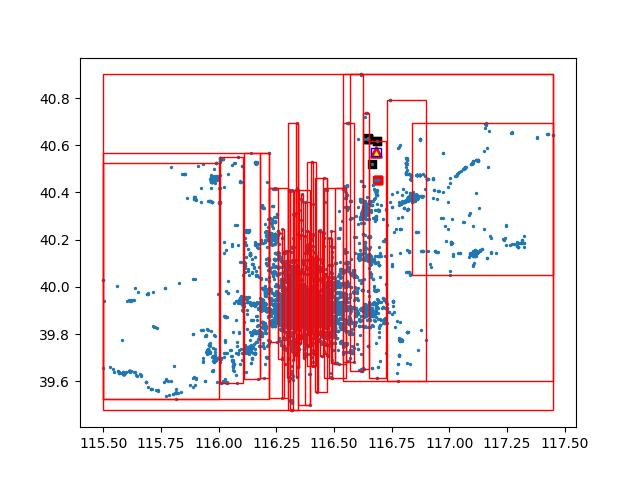
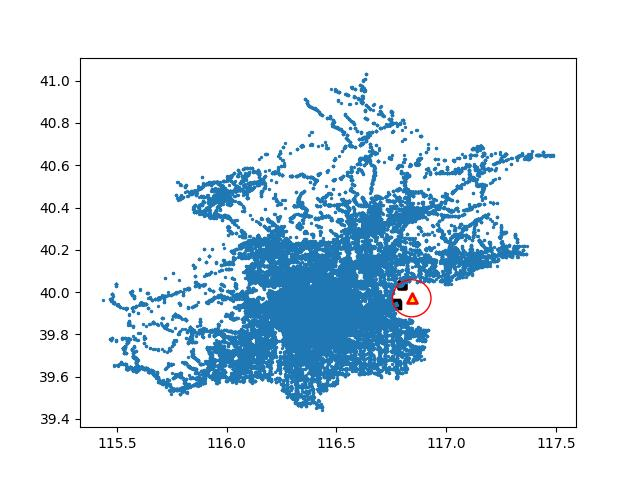
fix knn search

diff --git a/model/RTree.py b/model/RTree.py
@@ -2,6 +2,7 @@ from .MBR import MBR
 from .Point import Point
 from . import RTree
 import sys
+import math
 
 class RTree:
 
@@ -248,77 +249,47 @@ class RTree:
                 result += child.getPointsByMBR(mbr)
         return result
 
+    def getPointsByCircle(self,point,radius):
+        if len(self.children) == 0:
+            return self.point_pool
+        result = []
+        for child in self.children:
+            if MBR.isIntersectByCircle(child.mbr,point,radius):
+                result += child.getPointsByCircle(point,radius)
+        return result
+
 
     @staticmethod
     def knnSearch(rtree, point, k):
         points_num = rtree.numOfPoints()
         main_mbr = rtree.mbr
-        search_mbr_record = []
+        search_range_record = []
         # TODO: check if k > points num
         # TODO: check if point is in mbr
         # generate query range
         scale_ratio = (k/points_num) ** 0.5
-        search_width = (main_mbr.right - main_mbr.left) * scale_ratio
-        search_height = (main_mbr.top - main_mbr.bottom) * scale_ratio
-        top = point.index[1] + search_height/2
-        if top > main_mbr.top:
-            top = main_mbr.top
-        bottom = point.index[1] - search_height/2
-        if bottom < main_mbr.bottom:
-            bottom = main_mbr.bottom
-        left = point.index[0] - search_width/2
-        if left < main_mbr.left:
-            left = main_mbr.left
-        right = point.index[0] + search_width/2
-        if right > main_mbr.right:
-            right = main_mbr.right
-        search_mbr = MBR(
-            top = top,
-            bottom= bottom,
-            left=left,
-            right= right,
-        )
-        search_mbr_record.append(search_mbr)
+        radius = ((main_mbr.right - main_mbr.left) *(main_mbr.top - main_mbr.bottom) * scale_ratio / math.pi ) ** 0.5
+        search_range_record.append(radius)
         # get points by search mbr
         while True:
-            scan_set = rtree.getPointsByMBR(search_mbr)
-            # if points num is not enough, expand range
-            if len(scan_set) < k:
-                search_width *= 2
-                search_height *= 2
-                top = point.index[1] + search_height/2
-                if top > main_mbr.top:
-                    top = main_mbr.top
-                bottom = point.index[1] - search_height/2
-                if bottom < main_mbr.bottom:
-                    bottom = main_mbr.bottom
-                left = point.index[0] - search_width/2
-                if left < main_mbr.left:
-                    left = main_mbr.left
-                right = point.index[0] + search_width/2
-                if right > main_mbr.right:
-                    right = main_mbr.right
-                search_mbr = MBR(
-                    top = top,
-                    bottom= bottom,
-                    left=left,
-                    right= right,
-                )
-                search_mbr_record.append(search_mbr)
-                continue
+            scan_set = rtree.getPointsByCircle(point,radius)
             # if points num is enough, get first k points
-            if len(scan_set) == k:
-                return scan_set
             result_set = {}
             for target_point in scan_set:
                 dist = Point.distance(point, target_point)
-                if len(result_set) <= k:
-                    result_set[target_point] = dist
-                else:
-                # sort result set
-                    sort_result = sorted(result_set.items(), key = lambda kv:kv[1])
-                    max_point = sort_result.pop()
-                    if max_point[1] > dist:
-                        result_set.pop(max_point[0])
+                if  dist <= radius:
+                    if len(result_set) <= k:
                         result_set[target_point] = dist
-            return list(result_set.keys()), search_mbr_record
+                    else :
+                    # sort result set
+                        sort_result = sorted(result_set.items(), key = lambda kv:kv[1])
+                        max_point = sort_result.pop()
+                        if max_point[1] > dist:
+                            result_set.pop(max_point[0])
+                            result_set[target_point] = dist
+            # if points num is not enough, expand range
+            if len(result_set) < k:
+                radius *= 2
+                search_range_record.append(radius)
+                continue
+            return list(result_set.keys()), search_range_record

diff --git a/Assignment_2/main.py b/Assignment_2/main.py
@@ -32,7 +32,7 @@ def main(argv):
     x_cor = []
     y_cor = []
     # load data
-    for row in poi_dataset_lines[:10000]:
+    for row in poi_dataset_lines:
         x, y = row.split(',')
         x = float(x)
         y = float(y)
@@ -53,12 +53,12 @@ def main(argv):
     mbr = rt.mbr
     x_low = mbr.left + random.random() * (mbr.right - mbr.left)
     y_low = mbr.bottom + random.random() * (mbr.top - mbr.bottom)
-    k = 5
+    k = 10
     target_point = Point(index = [x_low,y_low])
     # target_point = Point(index = [115.7,40.7])
     # search
     print("target point: [", target_point.index[0], ",",target_point.index[1],"]")
-    knn_tree_result, search_mbr_record = RTree.knnSearch(rt,target_point,k)
+    knn_tree_result, search_range_record = RTree.knnSearch(rt,target_point,k)
     knn_exhuastive_result = exhaustiveSearch(target_point,k,poi_dataset)
     drawResultPoint(target_point,knn_tree_result,knn_exhuastive_result)
 
@@ -74,33 +74,32 @@ def main(argv):
     # Get the current reference
     ax = plt.gca()
     # Create a Rectangle patch
-    from matplotlib.patches import Rectangle
-    temp_queue = queue.Queue()
-    temp_queue.put(rt)
-    while not temp_queue.empty():
-        tree = temp_queue.get()
-        if len(tree.children) > 0:
-            for child in tree.children:
-                temp_queue.put(child)
-            the_mbr = tree.mbr
-            # tree region rectangle
-            rect = Rectangle(
-                (the_mbr.left,the_mbr.bottom),
-                the_mbr.right-the_mbr.left,
-                the_mbr.top-the_mbr.bottom,
-                linewidth=1,edgecolor='r',facecolor='none')
-            ax.add_patch(rect)
-            plt.savefig('../test2.jpg')
+    # from matplotlib.patches import Rectangle
+    # temp_queue = queue.Queue()
+    # temp_queue.put(rt)
+    # while not temp_queue.empty():
+    #     tree = temp_queue.get()
+    #     if len(tree.children) > 0:
+    #         for child in tree.children:
+    #             temp_queue.put(child)
+    #         the_mbr = tree.mbr
+    #         # tree region rectangle
+    #         rect = Rectangle(
+    #             (the_mbr.left,the_mbr.bottom),
+    #             the_mbr.right-the_mbr.left,
+    #             the_mbr.top-the_mbr.bottom,
+    #             linewidth=1,edgecolor='r',facecolor='none')
+    #         ax.add_patch(rect)
+    #         plt.savefig('../test2.jpg')
             # input("press any button")
     # draw seach range
     print("draw search range")
-    for i in range(len(search_mbr_record)):
-        rect = Rectangle(
-            (search_mbr_record[i].left,search_mbr_record[i].bottom),
-            search_mbr_record[i].right-search_mbr_record[i].left,
-            search_mbr_record[i].top-search_mbr_record[i].bottom,
-            linewidth=1,edgecolor='b',facecolor='none')
-        ax.add_patch(rect)
+    for i in range(len(search_range_record)):
+        circle = plt.Circle(
+            (target_point.index[0], target_point.index[1]),
+            search_range_record[i],
+            color='r', fill=False)
+        ax.add_patch(circle)
         plt.savefig('../test2.jpg')
         input("press any button")
 

diff --git a/model/MBR.py b/model/MBR.py
@@ -34,6 +34,11 @@ class MBR:
         return not ((newLeft > newRight) or (newBottom > newTop))
 
     @staticmethod
+    def isIntersectByCircle(mbr: MBR, centre:Point, radius):
+        dist = MBR.getMindist(mbr,centre)
+        return dist < radius
+
+    @staticmethod
     def getMindist(mbr: MBR, point: Point):
         x = point.index[0]
         y = point.index[1]
